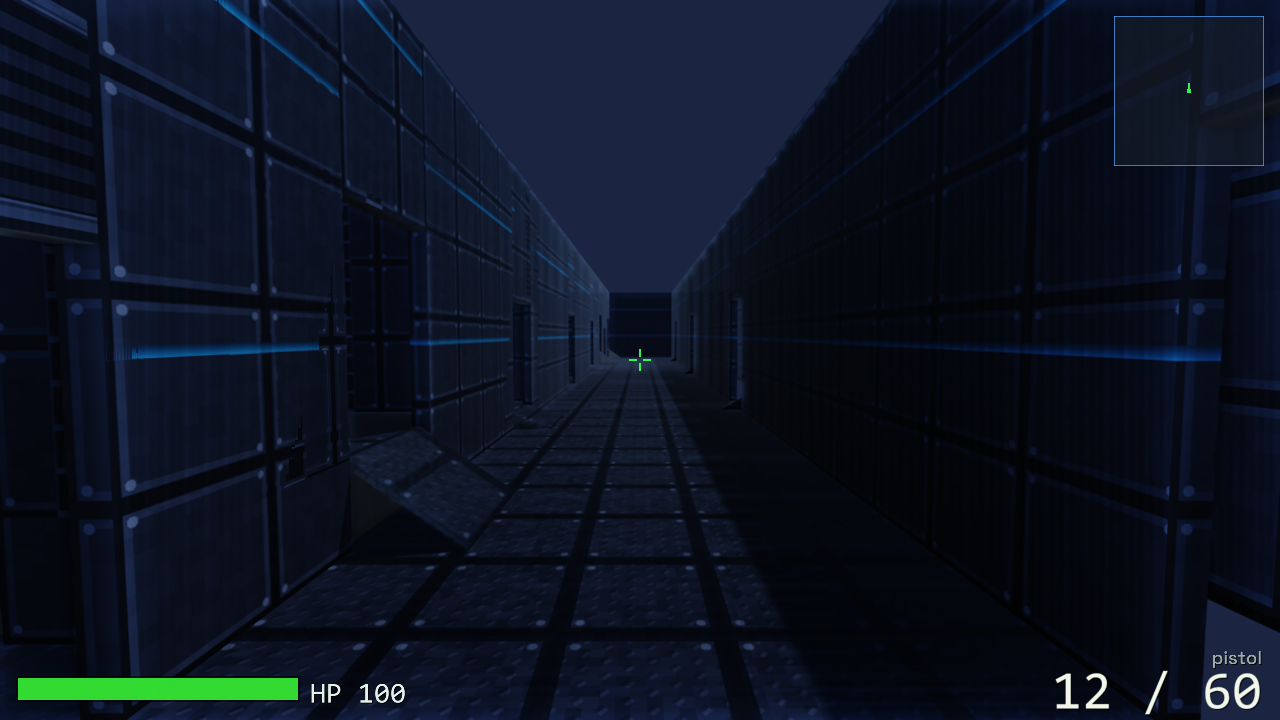
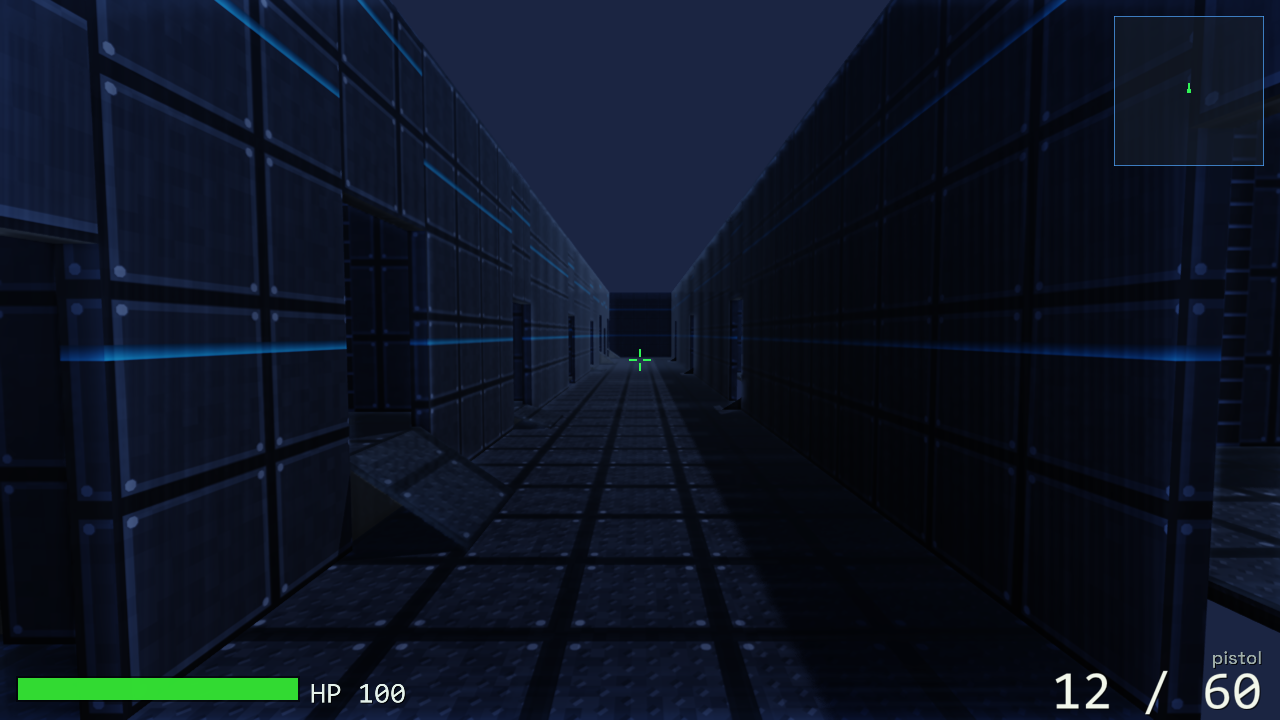
fix(artifacts): APPLY the coplanar-wall dedup (was computed but never used) — kills z-fighting
buildCanonFloor computed a skipFace[] table to suppress the redundant wall
when two adjacent rooms each build a box on their SHARED plane (two coincident
opaque boxes that z-fight wherever the PVS draws both rooms — i.e. exactly
through the doorway the player looks through). But the shell loop built all 4
walls UNCONDITIONALLY — skipFace was dead code, so the flicker was still live.
Now the loop consults skipFace: the covered room skips its coplanar face and
the doored-neighbour owner renders + collides it for both sides. No coincident
faces => no z-fighting, no duplicate geometry, no holes (owner is always in the
skipper's PVS). canonlevel(16, incl. walk-through nav)/building(10)/keypad(6)/
canonplay(9) all still green; Main-Hall proof re-shot clean.

Claude-Session: https://claude.ai/code/session_01E24mbCoNNfVChPDVpHC7v2

diff --git a/app/level_loader.cpp b/app/level_loader.cpp
@@ -1275,10 +1275,15 @@ void buildCanonFloor(CanonFloor& floor, Scene& scene,
                      kShaftHoleHalf, kShaftHoleHalf);
 
         // 4 walls with doorway gaps where the resolver produced them.
-        buildWallZWithGaps(ri, r.x0(), r.z0(), r.z1(), floorY, h, gapXneg[ri], wTex, tint);   // -X wall (runs in Z)
-        buildWallZWithGaps(ri, r.x1(), r.z0(), r.z1(), floorY, h, gapXpos[ri], wTex, tint);   // +X wall
-        buildWallXWithGaps(ri, r.z0(), r.x0(), r.x1(), floorY, h, gapZneg[ri], wTex, tint);   // -Z wall (runs in X)
-        buildWallXWithGaps(ri, r.z1(), r.x0(), r.x1(), floorY, h, gapZpos[ri], wTex, tint);   // +Z wall
+        // Apply the coplanar-wall DEDUP (kills z-fighting at shared room boundaries): a
+        // face flagged in skipFace is fully covered by the doored neighbour's wall on the
+        // SAME plane, so the neighbour (the "owner") builds it for both rooms — this room
+        // skips it (no coincident opaque box, no flicker; the owner still renders + collides
+        // from both sides because it's in this room's PVS).
+        if (!skipFace[ri * 4 + 0]) buildWallZWithGaps(ri, r.x0(), r.z0(), r.z1(), floorY, h, gapXneg[ri], wTex, tint);   // -X wall (runs in Z)
+        if (!skipFace[ri * 4 + 1]) buildWallZWithGaps(ri, r.x1(), r.z0(), r.z1(), floorY, h, gapXpos[ri], wTex, tint);   // +X wall
+        if (!skipFace[ri * 4 + 2]) buildWallXWithGaps(ri, r.z0(), r.x0(), r.x1(), floorY, h, gapZneg[ri], wTex, tint);   // -Z wall (runs in X)
+        if (!skipFace[ri * 4 + 3]) buildWallXWithGaps(ri, r.z1(), r.x0(), r.x1(), floorY, h, gapZpos[ri], wTex, tint);   // +Z wall
     }
 
     // ---- THRESHOLD RAMPS at doored/adjacent/overlap openings with a FLOOR-HEIGHT
